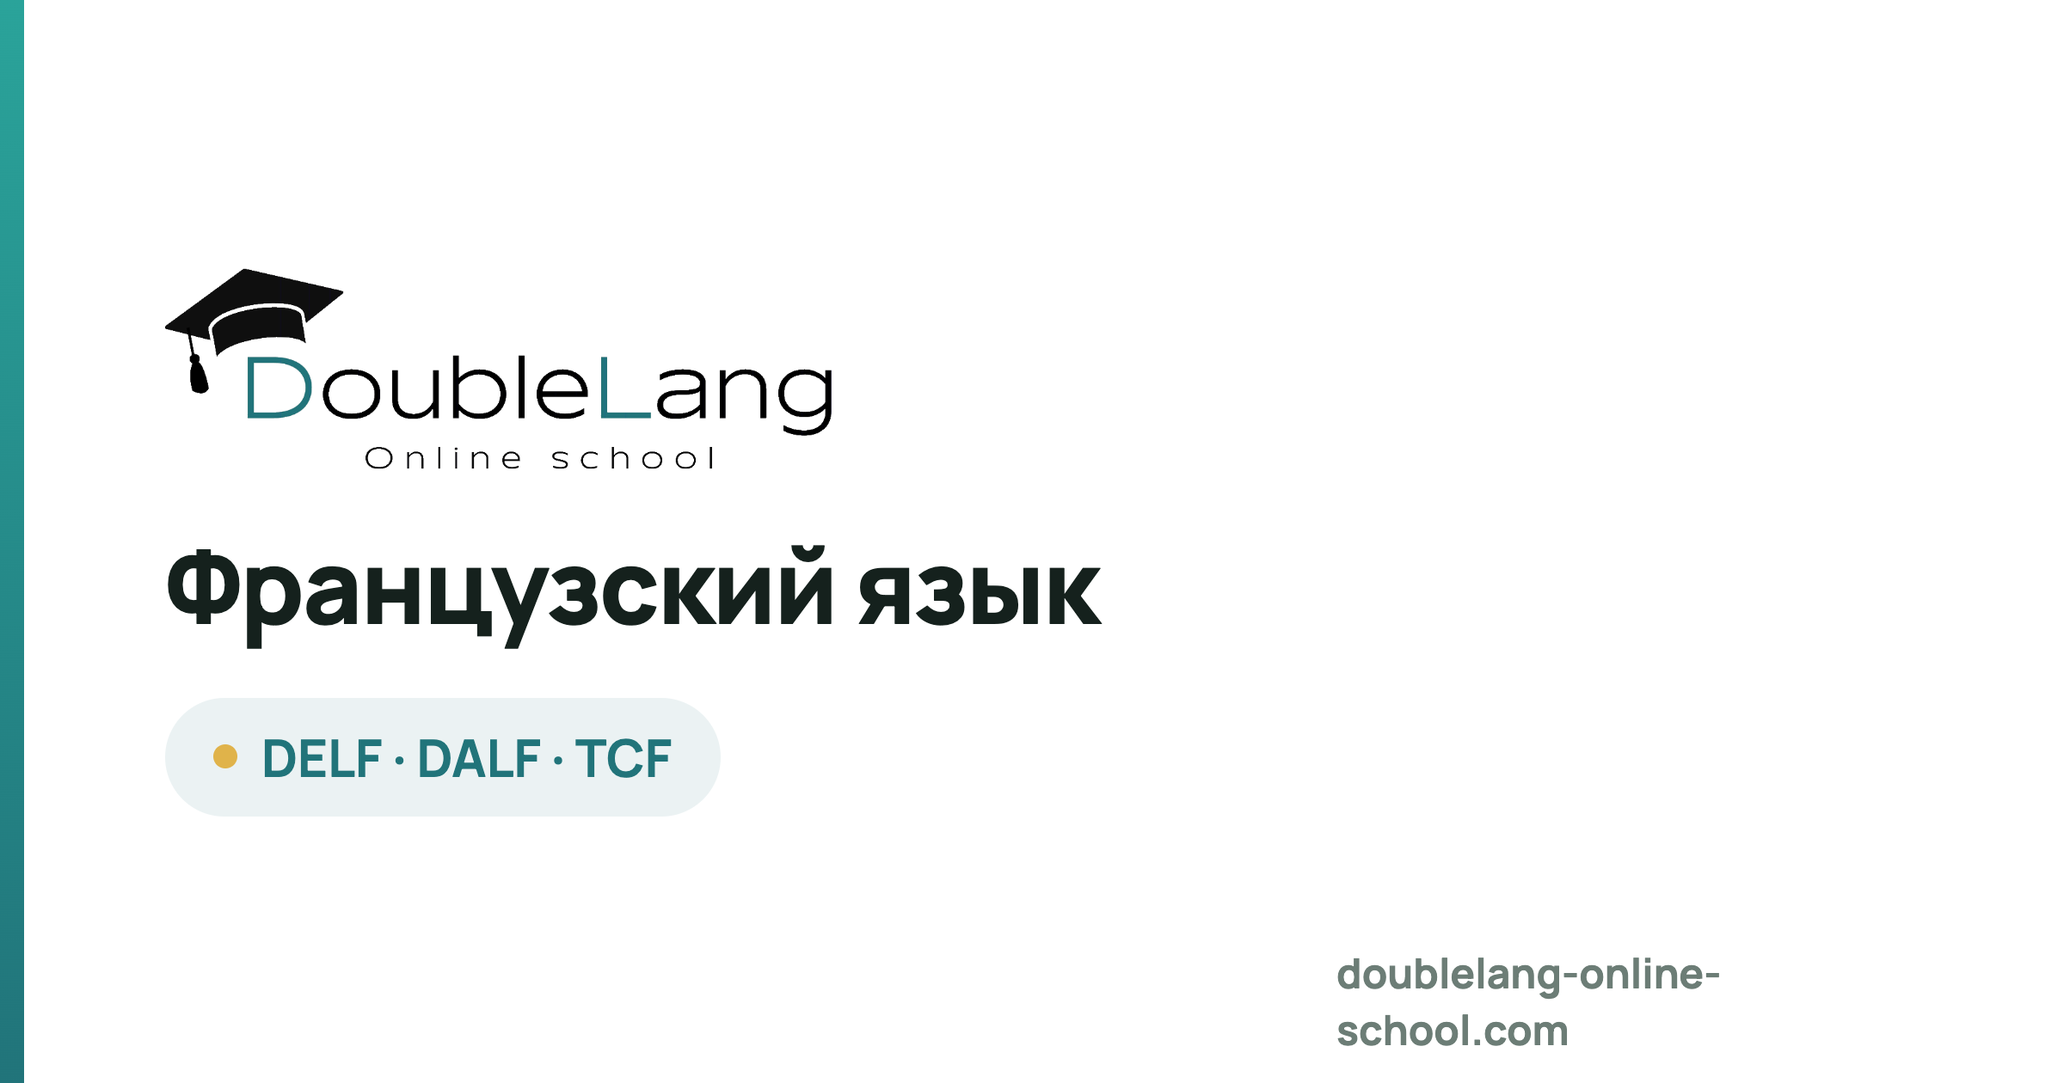
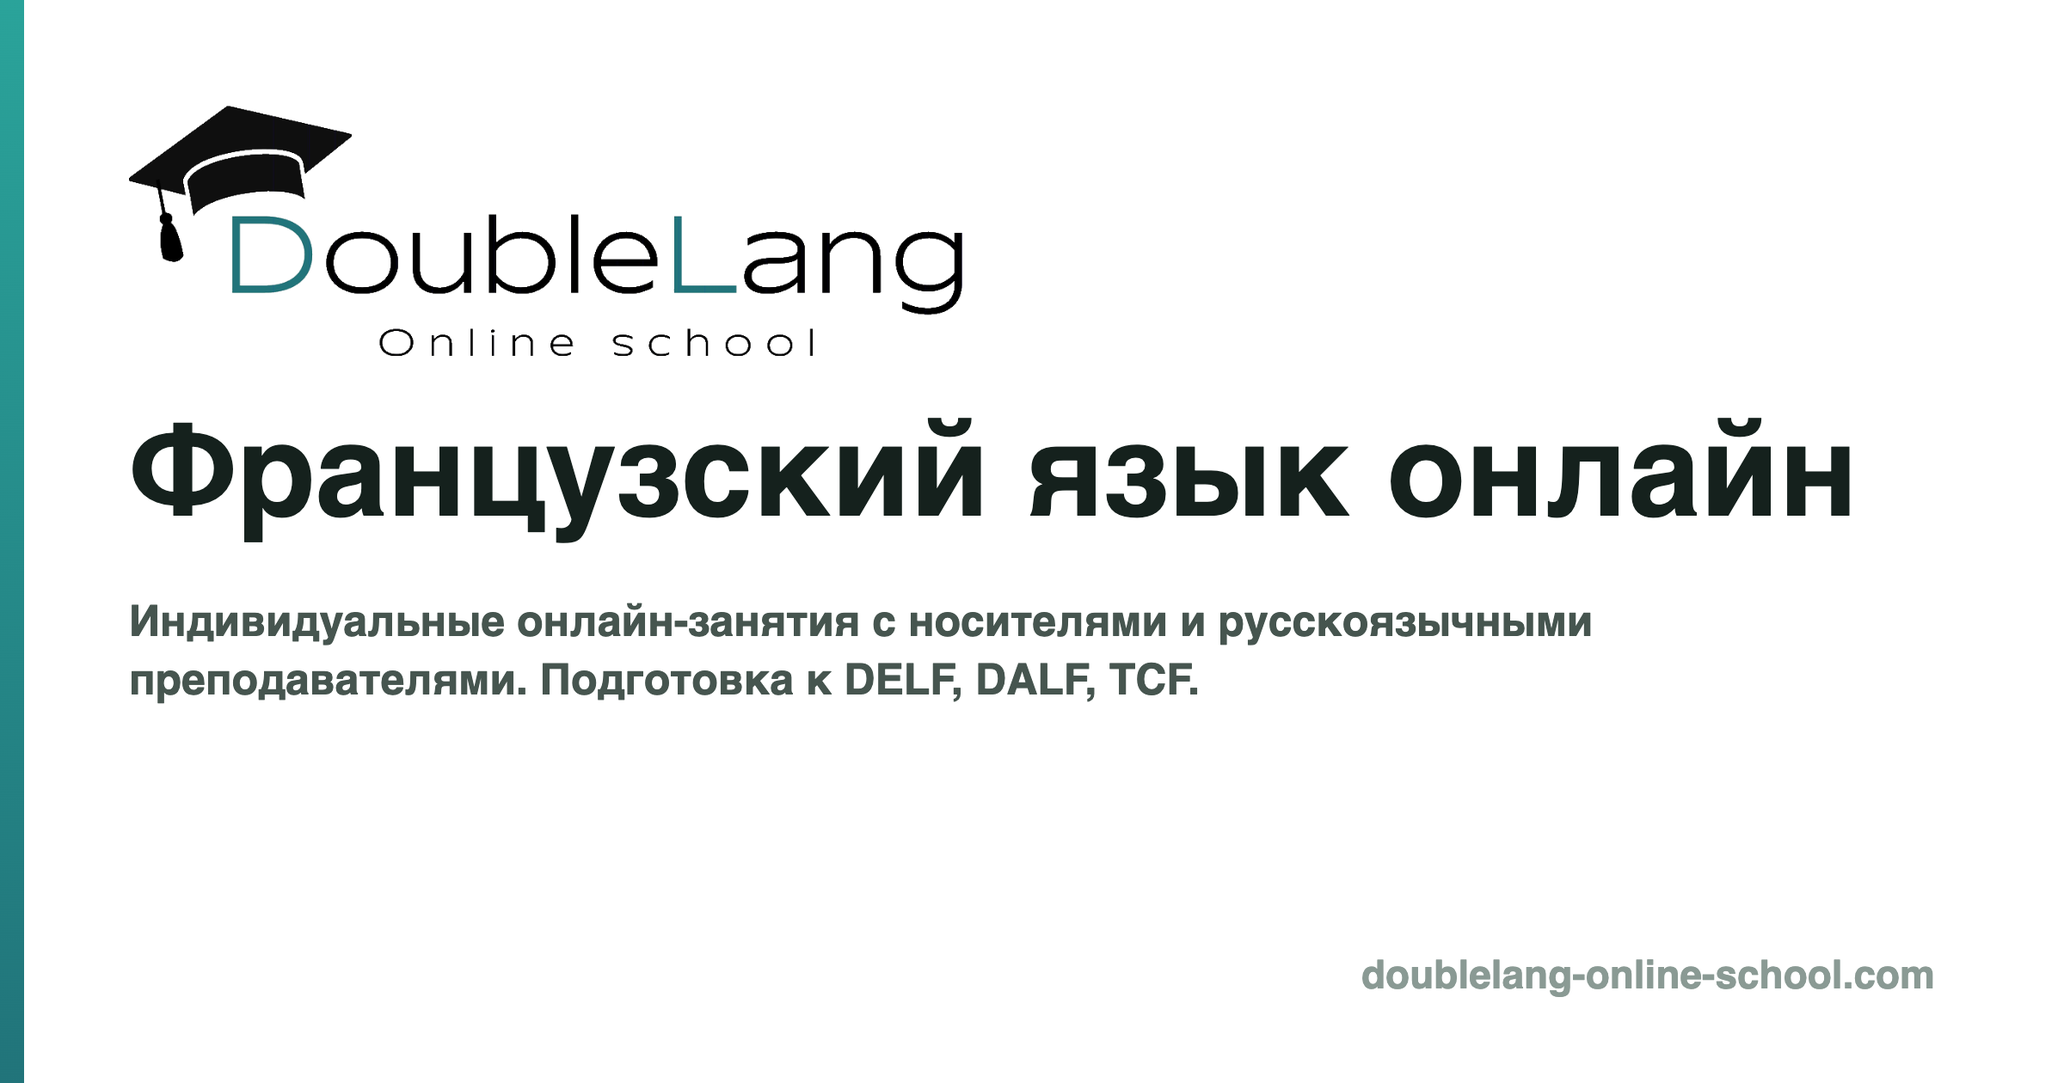
puw

Changed region(s): [[0.0625, 0.0929, 0.9062, 0.65], [0.6562, 0.8667, 0.9375, 0.9905], [0.0938, 0.681, 0.3438, 0.7429]]

diff --git a/index.html b/index.html
@@ -11,7 +11,7 @@
   <meta property="og:type" content="website">
   <meta property="og:url" content="https://doublelang-online-school.com/">
   <meta name="robots" content="index, follow">
-  <meta property="og:image" content="https://doublelang-online-school.com/assets/og2-main.png">
+  <meta property="og:image" content="https://doublelang-online-school.com/assets/og2-main-v3.png">
   <meta property="og:image:type" content="image/png">
   <meta property="og:image:width" content="1200">
   <meta property="og:image:height" content="630">
@@ -20,7 +20,7 @@
   <meta name="twitter:card" content="summary_large_image">
   <meta name="twitter:title" content="Онлайн-школа иностранных языков DoubleLang">
   <meta name="twitter:description" content="18 языков онлайн с носителями и опытными преподавателями. Индивидуальный подход, гибкое расписание, пробный урок бесплатно.">
-  <meta name="twitter:image" content="https://doublelang-online-school.com/assets/og2-main.png">
+  <meta name="twitter:image" content="https://doublelang-online-school.com/assets/og2-main-v3.png">
   <meta name="keywords" content="онлайн-школа языков, английский онлайн, немецкий онлайн, французский онлайн, испанский, нидерландский, турецкий, репетитор носитель языка">
   <meta name="author" content="DoubleLang">
 

diff --git a/serbian/index.html b/serbian/index.html
@@ -11,7 +11,7 @@
   <meta property="og:type" content="website">
   <meta property="og:url" content="https://doublelang-online-school.com/serbian/">
   <meta name="robots" content="index, follow">
-  <meta property="og:image" content="https://doublelang-online-school.com/assets/og2-serbian.png">
+  <meta property="og:image" content="https://doublelang-online-school.com/assets/og2-serbian-v3.png">
   <meta property="og:image:type" content="image/png">
   <meta property="og:image:width" content="1200">
   <meta property="og:image:height" content="630">
@@ -20,7 +20,7 @@
   <meta name="twitter:card" content="summary_large_image">
   <meta name="twitter:title" content="Курсы сербского языка онлайн — Школа DoubleLang">
   <meta name="twitter:description" content="Индивидуальные занятия сербским с опытными преподавателями. Подготовка к экзаменам, язык для переезда и работы. Пробный урок бесплатно.">
-  <meta name="twitter:image" content="https://doublelang-online-school.com/assets/og2-serbian.png">
+  <meta name="twitter:image" content="https://doublelang-online-school.com/assets/og2-serbian-v3.png">
   <meta name="keywords" content="сербский язык онлайн, курсы сербского, сербский с нуля, переезд в Сербию, экзамен на гражданство Сербии">
   <meta name="author" content="DoubleLang">
 

diff --git a/dutch/index.html b/dutch/index.html
@@ -11,7 +11,7 @@
   <meta property="og:type" content="website">
   <meta property="og:url" content="https://doublelang-online-school.com/dutch/">
   <meta name="robots" content="index, follow">
-  <meta property="og:image" content="https://doublelang-online-school.com/assets/og2-dutch.png">
+  <meta property="og:image" content="https://doublelang-online-school.com/assets/og2-dutch-v3.png">
   <meta property="og:image:type" content="image/png">
   <meta property="og:image:width" content="1200">
   <meta property="og:image:height" content="630">
@@ -20,7 +20,7 @@
   <meta name="twitter:card" content="summary_large_image">
   <meta name="twitter:title" content="Курсы голландского языка онлайн | DoubleLang">
   <meta name="twitter:description" content="Индивидуальные занятия нидерландским с преподавателями из Нидерландов. Подготовка к Ваша цель — наш ориентир. Пробный урок бесплатно.">
-  <meta name="twitter:image" content="https://doublelang-online-school.com/assets/og2-dutch.png">
+  <meta name="twitter:image" content="https://doublelang-online-school.com/assets/og2-dutch-v3.png">
   <meta name="keywords" content="голландский язык онлайн, курсы нидерландского, подготовка к Ваша цель — наш ориентир, нидерландский с нуля">
   <meta name="author" content="DoubleLang">
 

diff --git a/greek/index.html b/greek/index.html
@@ -11,7 +11,7 @@
   <meta property="og:type" content="website">
   <meta property="og:url" content="https://doublelang-online-school.com/greek/">
   <meta name="robots" content="index, follow">
-  <meta property="og:image" content="https://doublelang-online-school.com/assets/og2-greek.png">
+  <meta property="og:image" content="https://doublelang-online-school.com/assets/og2-greek-v3.png">
   <meta property="og:image:type" content="image/png">
   <meta property="og:image:width" content="1200">
   <meta property="og:image:height" content="630">
@@ -20,7 +20,7 @@
   <meta name="twitter:card" content="summary_large_image">
   <meta name="twitter:title" content="Курсы греческого языка онлайн — Школа DoubleLang">
   <meta name="twitter:description" content="Индивидуальные занятия греческим с опытными преподавателями. Подготовка к Ελληνομάθεια — сертификация. Пробный урок бесплатно.">
-  <meta name="twitter:image" content="https://doublelang-online-school.com/assets/og2-greek.png">
+  <meta name="twitter:image" content="https://doublelang-online-school.com/assets/og2-greek-v3.png">
   <meta name="keywords" content="греческий язык онлайн, курсы греческого, подготовка к Ελληνομάθεια — сертификация, греческий с нуля">
   <meta name="author" content="DoubleLang">
 

diff --git a/portuguese/index.html b/portuguese/index.html
@@ -11,7 +11,7 @@
   <meta property="og:type" content="website">
   <meta property="og:url" content="https://doublelang-online-school.com/portuguese/">
   <meta name="robots" content="index, follow">
-  <meta property="og:image" content="https://doublelang-online-school.com/assets/og2-portuguese.png">
+  <meta property="og:image" content="https://doublelang-online-school.com/assets/og2-portuguese-v3.png">
   <meta property="og:image:type" content="image/png">
   <meta property="og:image:width" content="1200">
   <meta property="og:image:height" content="630">
@@ -20,7 +20,7 @@
   <meta name="twitter:card" content="summary_large_image">
   <meta name="twitter:title" content="Курсы португальского языка онлайн — Школа DoubleLang">
   <meta name="twitter:description" content="Индивидуальные занятия португальским с опытными преподавателями. Подготовка к CIPLE, DIPLE, CAPLE. Пробный урок бесплатно.">
-  <meta name="twitter:image" content="https://doublelang-online-school.com/assets/og2-portuguese.png">
+  <meta name="twitter:image" content="https://doublelang-online-school.com/assets/og2-portuguese-v3.png">
   <meta name="keywords" content="португальский язык онлайн, курсы португальского, подготовка к CIPLE, DIPLE, CAPLE, португальский с нуля">
   <meta name="author" content="DoubleLang">
 

diff --git a/english/index.html b/english/index.html
@@ -11,7 +11,7 @@
   <meta property="og:type" content="website">
   <meta property="og:url" content="https://doublelang-online-school.com/english/">
   <meta name="robots" content="index, follow">
-  <meta property="og:image" content="https://doublelang-online-school.com/assets/og2-english.png">
+  <meta property="og:image" content="https://doublelang-online-school.com/assets/og2-english-v3.png">
   <meta property="og:image:type" content="image/png">
   <meta property="og:image:width" content="1200">
   <meta property="og:image:height" content="630">
@@ -20,7 +20,7 @@
   <meta name="twitter:card" content="summary_large_image">
   <meta name="twitter:title" content="Курсы английского языка онлайн — Школа DoubleLang">
   <meta name="twitter:description" content="Индивидуальные занятия английским с опытными преподавателями. Подготовка к IELTS, TOEFL, Cambridge. Пробный урок бесплатно.">
-  <meta name="twitter:image" content="https://doublelang-online-school.com/assets/og2-english.png">
+  <meta name="twitter:image" content="https://doublelang-online-school.com/assets/og2-english-v3.png">
   <meta name="keywords" content="английский язык онлайн, курсы английского, подготовка к IELTS, TOEFL, Cambridge, английский с нуля">
   <meta name="author" content="DoubleLang">
 

diff --git a/french/index.html b/french/index.html
@@ -11,7 +11,7 @@
   <meta property="og:type" content="website">
   <meta property="og:url" content="https://doublelang-online-school.com/french/">
   <meta name="robots" content="index, follow">
-  <meta property="og:image" content="https://doublelang-online-school.com/assets/og2-french.png">
+  <meta property="og:image" content="https://doublelang-online-school.com/assets/og2-french-v3.png">
   <meta property="og:image:type" content="image/png">
   <meta property="og:image:width" content="1200">
   <meta property="og:image:height" content="630">
@@ -20,7 +20,7 @@
   <meta name="twitter:card" content="summary_large_image">
   <meta name="twitter:title" content="Курсы французского языка онлайн — Школа DoubleLang">
   <meta name="twitter:description" content="Индивидуальные занятия французским с опытными преподавателями. Подготовка к DELF, DALF, TCF. Пробный урок бесплатно.">
-  <meta name="twitter:image" content="https://doublelang-online-school.com/assets/og2-french.png">
+  <meta name="twitter:image" content="https://doublelang-online-school.com/assets/og2-french-v3.png">
   <meta name="keywords" content="французский язык онлайн, курсы французского, подготовка к DELF, DALF, TCF, французский с нуля">
   <meta name="author" content="DoubleLang">
 

diff --git a/japanese/index.html b/japanese/index.html
@@ -11,7 +11,7 @@
   <meta property="og:type" content="website">
   <meta property="og:url" content="https://doublelang-online-school.com/japanese/">
   <meta name="robots" content="index, follow">
-  <meta property="og:image" content="https://doublelang-online-school.com/assets/og2-japanese-v2.png">
+  <meta property="og:image" content="https://doublelang-online-school.com/assets/og2-japanese-v4.png">
   <meta property="og:image:type" content="image/png">
   <meta property="og:image:width" content="1200">
   <meta property="og:image:height" content="630">
@@ -20,7 +20,7 @@
   <meta name="twitter:card" content="summary_large_image">
   <meta name="twitter:title" content="Курсы японского языка онлайн — Школа DoubleLang">
   <meta name="twitter:description" content="Индивидуальные занятия японским с опытными преподавателями. Подготовка к JLPT, NAT-TEST, J.TEST. Пробный урок бесплатно.">
-  <meta name="twitter:image" content="https://doublelang-online-school.com/assets/og2-japanese-v2.png">
+  <meta name="twitter:image" content="https://doublelang-online-school.com/assets/og2-japanese-v4.png">
   <meta name="keywords" content="японский язык онлайн, курсы японского, подготовка к JLPT, NAT-TEST, J.TEST, японский с нуля">
   <meta name="author" content="DoubleLang">
 

diff --git a/spanish/index.html b/spanish/index.html
@@ -11,7 +11,7 @@
   <meta property="og:type" content="website">
   <meta property="og:url" content="https://doublelang-online-school.com/spanish/">
   <meta name="robots" content="index, follow">
-  <meta property="og:image" content="https://doublelang-online-school.com/assets/og2-spanish.png">
+  <meta property="og:image" content="https://doublelang-online-school.com/assets/og2-spanish-v3.png">
   <meta property="og:image:type" content="image/png">
   <meta property="og:image:width" content="1200">
   <meta property="og:image:height" content="630">
@@ -20,7 +20,7 @@
   <meta name="twitter:card" content="summary_large_image">
   <meta name="twitter:title" content="Курсы испанского языка онлайн — Школа DoubleLang">
   <meta name="twitter:description" content="Индивидуальные занятия испанским с опытными преподавателями. Подготовка к DELE, SIELE, CCSE. Пробный урок бесплатно.">
-  <meta name="twitter:image" content="https://doublelang-online-school.com/assets/og2-spanish.png">
+  <meta name="twitter:image" content="https://doublelang-online-school.com/assets/og2-spanish-v3.png">
   <meta name="keywords" content="испанский язык онлайн, курсы испанского, подготовка к DELE, SIELE, CCSE, испанский с нуля">
   <meta name="author" content="DoubleLang">
 

diff --git a/german/index.html b/german/index.html
@@ -11,7 +11,7 @@
   <meta property="og:type" content="website">
   <meta property="og:url" content="https://doublelang-online-school.com/german/">
   <meta name="robots" content="index, follow">
-  <meta property="og:image" content="https://doublelang-online-school.com/assets/og2-german.png">
+  <meta property="og:image" content="https://doublelang-online-school.com/assets/og2-german-v3.png">
   <meta property="og:image:type" content="image/png">
   <meta property="og:image:width" content="1200">
   <meta property="og:image:height" content="630">
@@ -20,7 +20,7 @@
   <meta name="twitter:card" content="summary_large_image">
   <meta name="twitter:title" content="Курсы немецкого языка онлайн — Школа DoubleLang">
   <meta name="twitter:description" content="Индивидуальные занятия немецким с опытными преподавателями. Подготовка к ÖSD, EPD, TestDaF. Пробный урок бесплатно.">
-  <meta name="twitter:image" content="https://doublelang-online-school.com/assets/og2-german.png">
+  <meta name="twitter:image" content="https://doublelang-online-school.com/assets/og2-german-v3.png">
   <meta name="keywords" content="немецкий язык онлайн, курсы немецкого, подготовка к ÖSD, EPD, TestDaF, немецкий с нуля">
   <meta name="author" content="DoubleLang">
 

diff --git a/portuguese/pricing.html b/portuguese/pricing.html
@@ -9,7 +9,7 @@
 <meta property="og:description" content="Выберите пакет индивидуальных занятий по португальскому языку. Оплата в удобной валюте, пробный урок бесплатно.">
 <meta name="description" content="Выберите пакет индивидуальных занятий по португальскому языку. Оплата в удобной валюте, пробный урок бесплатно.">
 <meta property="og:url" content="https://doublelang-online-school.com/priceportuguese">
-<meta property="og:image" content="https://doublelang-online-school.com/assets/og2-portuguese.png">
+<meta property="og:image" content="https://doublelang-online-school.com/assets/og2-portuguese-v3.png">
 <meta property="og:image:type" content="image/png">
 <meta property="og:image:width" content="1200">
 <meta property="og:image:height" content="630">

diff --git a/dutch/pricing.html b/dutch/pricing.html
@@ -9,7 +9,7 @@
 <meta property="og:description" content="Выберите пакет индивидуальных занятий по нидерландскому языку. Оплата в удобной валюте, пробный урок бесплатно.">
 <meta name="description" content="Выберите пакет индивидуальных занятий по нидерландскому языку. Оплата в удобной валюте, пробный урок бесплатно.">
 <meta property="og:url" content="https://doublelang-online-school.com/pricedutch">
-<meta property="og:image" content="https://doublelang-online-school.com/assets/og2-dutch.png">
+<meta property="og:image" content="https://doublelang-online-school.com/assets/og2-dutch-v3.png">
 <meta property="og:image:type" content="image/png">
 <meta property="og:image:width" content="1200">
 <meta property="og:image:height" content="630">
